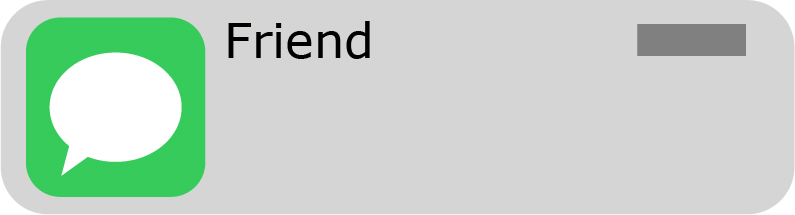
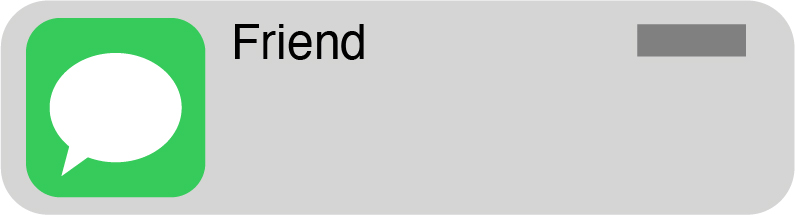
Updated fonts/graphics

diff --git a/istyping/istyping.py b/istyping/istyping.py
@@ -20,15 +20,15 @@ pygame.display.set_caption("is-typing")
 
 #intiliaze fonts
 pygame.font.init()
-font_path = pygame.font.match_font("verdana")
-bold_font_path = pygame.font.match_font("verdana", True)
-italic_font_path = pygame.font.match_font("verdana", False, True)
-bold_italic_font_path = pygame.font.match_font("verdana", True, True)
+font_path = pygame.font.match_font("sf pro")
+bold_font_path = pygame.font.match_font("sf pro", True)
+italic_font_path = pygame.font.match_font("sf pro", False, True)
+bold_italic_font_path = pygame.font.match_font("sf pro", True, True)
 h1 = pygame.font.Font(font_path, 32)
 h2 = pygame.font.Font(bold_italic_font_path, 48)
 h3 = pygame.font.Font(font_path, 20)
 h4 = pygame.font.Font(font_path, 17)
-transition_font = pygame.font.Font(bold_font_path,100)
+transition_font = pygame.font.Font(bold_font_path, 175)
 name_header = pygame.font.Font(bold_font_path, 48)
 
 #states for FSM
@@ -171,7 +171,7 @@ countingdown = False
 class HomeScreen:
     def __init__(self):
         self.startButton = Button(613, 255, 379, 105,  pygame.image.load("istyping/images/start_button.jpg"))
-        self.aboutButton = Button(613, 412, 379, 105, pygame.image.load("istyping/images/start_button.jpg"))
+        self.aboutButton = Button(613, 412, 379, 105, pygame.image.load("istyping/images/credits_button.jpg"))
         self.bg = pygame.image.load("istyping/images/testbg.jpg")
           
 #friendscreen class: holds UI and messages for friend dialogue
